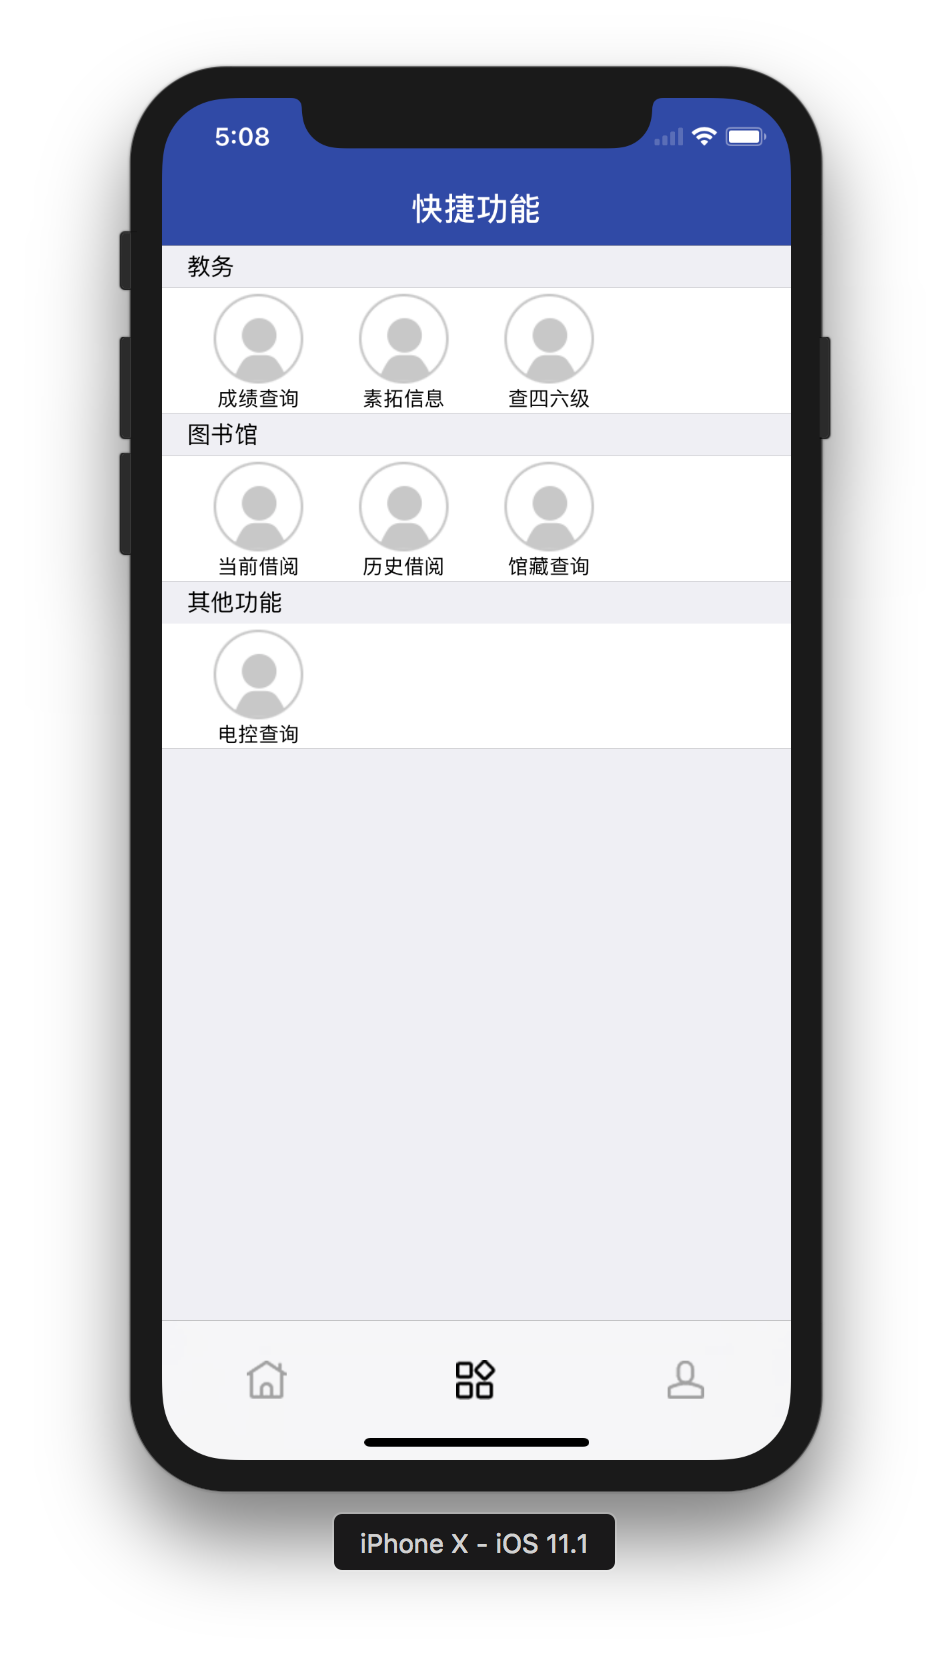
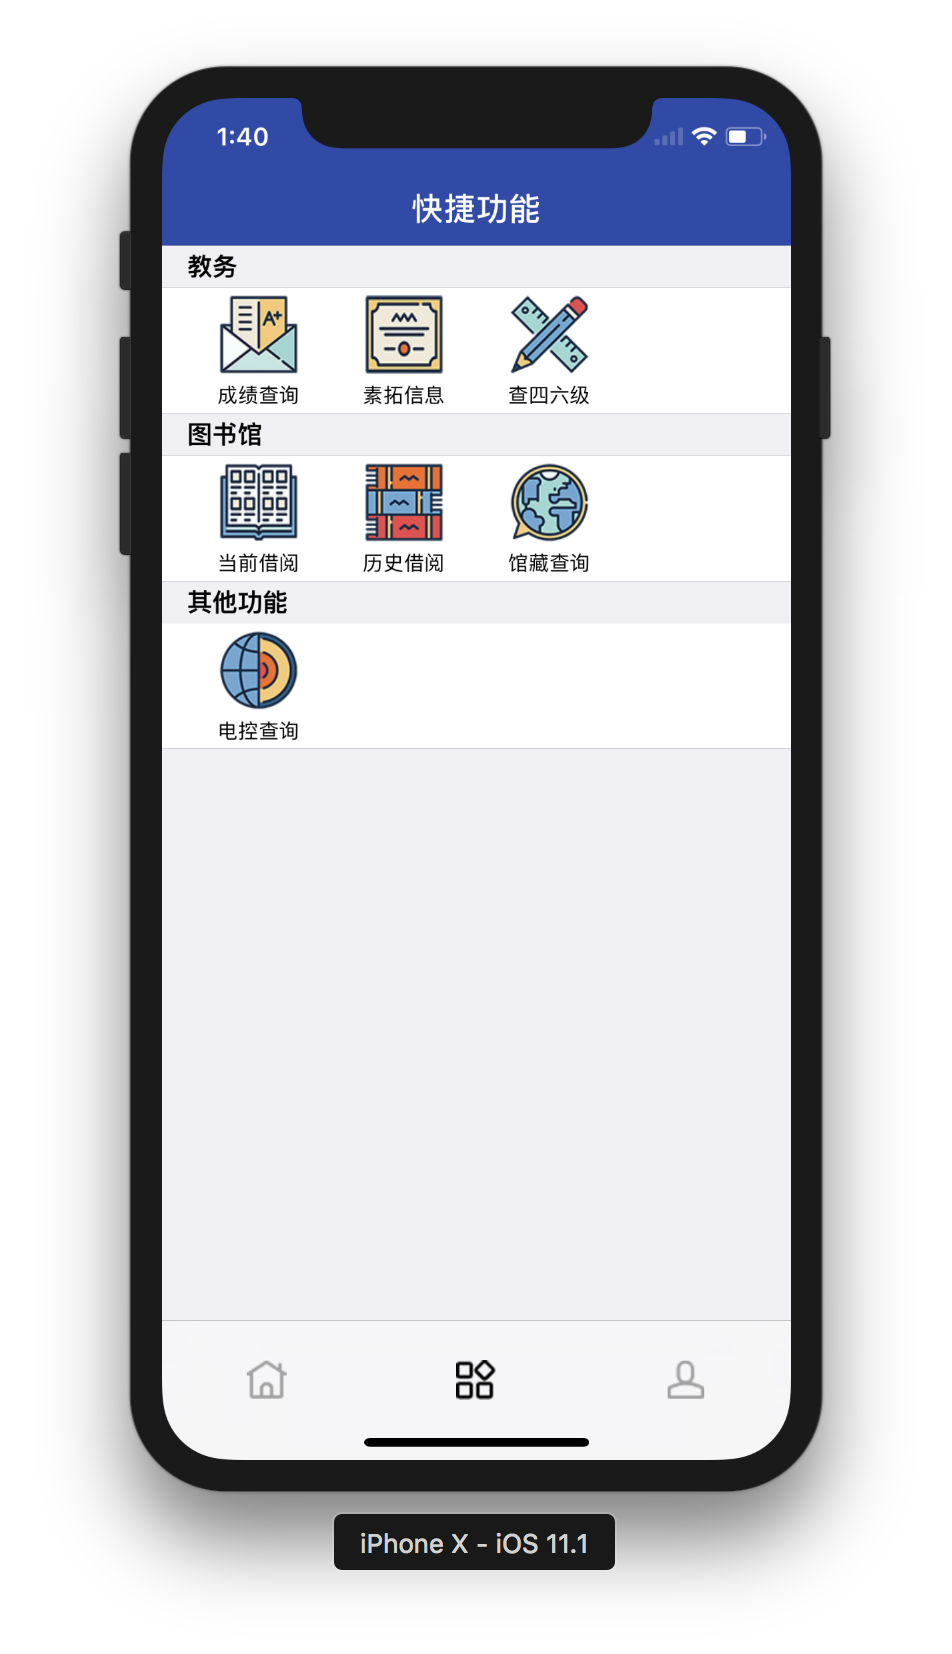
1.7.2

diff --git a/KWGdufe/Classes/Mine/Control/KWMineViewController.m b/KWGdufe/Classes/Mine/Control/KWMineViewController.m
@@ -54,7 +54,7 @@
     CGRect frame = CGRectMake(0, 0, 0, 0.1);
     self.tableView.tableHeaderView = [[UIView alloc] initWithFrame:frame];
     
-    [SVProgressHUD showWithStatus:@"加载数据中"];
+//    [SVProgressHUD show];
     
     NSString *account = [wrapper myObjectForKey:(id)kSecAttrAccount];
     NSDictionary *cashAry = [Utils getCache:account andID:@"CardModel"];
@@ -222,6 +222,7 @@
         } else {
             UITableViewCell *cell = [[UITableViewCell alloc]init];
             cell.textLabel.text = @"关于我们";
+            cell.accessoryType = UITableViewCellAccessoryDisclosureIndicator;
             cell.selectionStyle = UITableViewCellSelectionStyleNone;
             return cell;
         }

diff --git a/KWGdufe/Classes/Functions/Control/KWLibraryViewCell.m b/KWGdufe/Classes/Functions/Control/KWLibraryViewCell.m
@@ -55,13 +55,13 @@
     KWFunctionsCell *cell = [collectionView dequeueReusableCellWithReuseIdentifier:ID forIndexPath:indexPath];
     if (indexPath.row == 0) {
         cell.name = @"当前借阅";
-        cell.imageName = @"setup-head-default";
+        cell.imageName = @"currentBook";
     } else if (indexPath.row == 1) {
         cell.name = @"历史借阅";
-        cell.imageName = @"setup-head-default";
+        cell.imageName = @"borrowedBook";
     } else if (indexPath.row == 2) {
         cell.name = @"馆藏查询";
-        cell.imageName = @"setup-head-default";
+        cell.imageName = @"searchBook";
     }
     cell.backgroundColor = [UIColor clearColor];
     return cell;

diff --git a/KWGdufe/Classes/Functions/Control/KWEducationalViewCell.m b/KWGdufe/Classes/Functions/Control/KWEducationalViewCell.m
@@ -55,13 +55,13 @@
     KWFunctionsCell *cell = [collectionView dequeueReusableCellWithReuseIdentifier:ID forIndexPath:indexPath];
     if (indexPath.row == 0) {
         cell.name = @"成绩查询";
-        cell.imageName = @"setup-head-default";
+        cell.imageName = @"grade";
     } else if (indexPath.row == 1) {
         cell.name = @"素拓信息";
-        cell.imageName = @"setup-head-default";
+        cell.imageName = @"sztz2";
     } else {
         cell.name = @"查四六级";
-        cell.imageName = @"setup-head-default";
+        cell.imageName = @"46find";
     }
     cell.backgroundColor = [UIColor clearColor];
     return cell;

diff --git a/KWGdufe/Classes/Mine/View/KWMyMsgCell.m b/KWGdufe/Classes/Mine/View/KWMyMsgCell.m
@@ -68,7 +68,7 @@
             make.bottom.equalTo(nameANumView.mas_bottom);
         }];
         
-        UIImageView *image = [[UIImageView alloc]initWithImage:[UIImage imageNamed:@"setup-head-default"]];
+        UIImageView *image = [[UIImageView alloc]initWithImage:[UIImage imageNamed:@"mine3"]];
         [imageView addSubview:image];
         [image mas_makeConstraints:^(MASConstraintMaker *make) {
             make.top.equalTo(imageView.mas_top);

diff --git a/KWGdufe/Classes/MyClass/Control/KWMyClassViewController.m b/KWGdufe/Classes/MyClass/Control/KWMyClassViewController.m
@@ -65,7 +65,7 @@ static float progress = 0.0f;
 //    CGRect rectNav = self.navigationController.navigationBar.frame;
     
     //提示用户当前正在加载数据 SVPro
-    [SVProgressHUD showWithStatus:@"等一下能怎么样！？"];
+//    [SVProgressHUD showWithStatus:@"等一下能怎么样！？"];
     
     //获取缓存数据
 //    [self getDataFromCache];

diff --git a/KWGdufe/Classes/Functions/Control/KWOtherFuncViewCell.m b/KWGdufe/Classes/Functions/Control/KWOtherFuncViewCell.m
@@ -53,7 +53,7 @@
     KWFunctionsCell *cell = [collectionView dequeueReusableCellWithReuseIdentifier:ID forIndexPath:indexPath];
     if (indexPath.row == 0) {
         cell.name = @"电控查询";
-        cell.imageName = @"setup-head-default";
+        cell.imageName = @"elect";
     }
     cell.backgroundColor = [UIColor clearColor];
     return cell;
